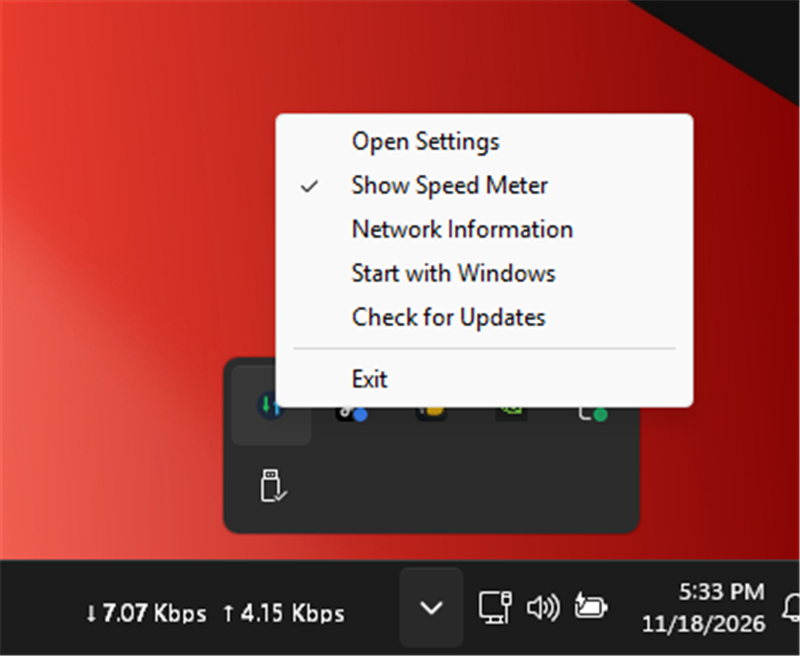
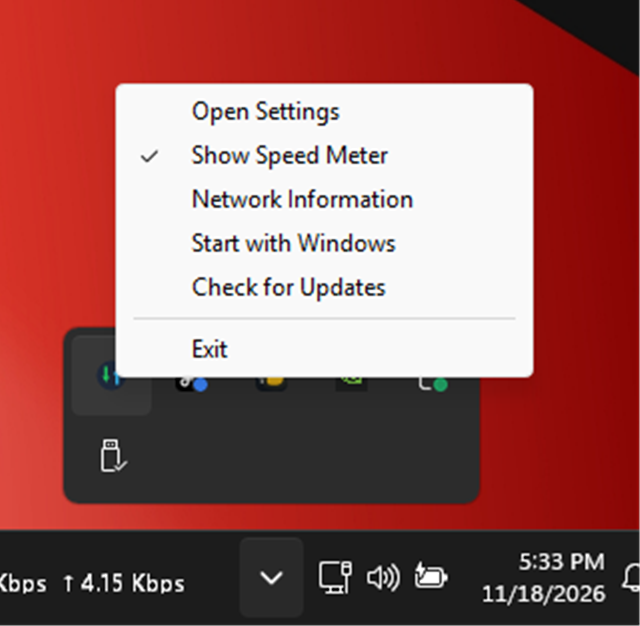
docs: compact hero, tighter tray screenshot, readable architecture diagram

diff --git a/README.md b/README.md
@@ -2,8 +2,6 @@
   <img src="docs/hero.svg" alt="NetPulse — live download and upload speed in the Windows taskbar" width="100%">
 </p>
 
-<h1 align="center">NetPulse</h1>
-
 <p align="center">
   <b>Live download and upload speed in your Windows 10 / 11 taskbar.</b><br>
   Native Win32 and Rust — no Electron, no background service, no traffic of its own.
@@ -179,16 +177,12 @@ immediately when Settings saves, so edits take effect without restarting.
 ## Architecture
 
 ```mermaid
-flowchart LR
-    subgraph P["netpulse.exe — background (single instance)"]
-        direction TB
-        S["sampler thread<br/>GetIfTable2 every interval"] -->|sample| H["host window thread<br/>message loop + 1 s timer"]
-        H -->|render| M["meter window<br/>layered · per-pixel alpha"]
-        T["tray thread<br/>tray-icon + menu"] -->|actions| H
-    end
-    F[("%APPDATA%\NetPulse\config.json")] <-->|read / atomic save| H
-    U["netpulse.exe --settings<br/>egui/eframe process"] -->|save + notify| F
-    U -->|WM_APP_CONFIG_CHANGED| H
+flowchart TD
+    sampler["sampler thread<br/>GetIfTable2 every interval"] -->|sample| host["host window<br/>message loop + 1 s timer"]
+    tray["tray thread<br/>tray-icon + menu"] -->|actions| host
+    host -->|render| meter["meter window<br/>layered, per-pixel alpha"]
+    settings["netpulse.exe --settings<br/>egui, separate process"] -->|save + notify| config[("%APPDATA%/NetPulse/config.json")]
+    config -->|load| host
 ```
 
 | Path | Responsibility |
